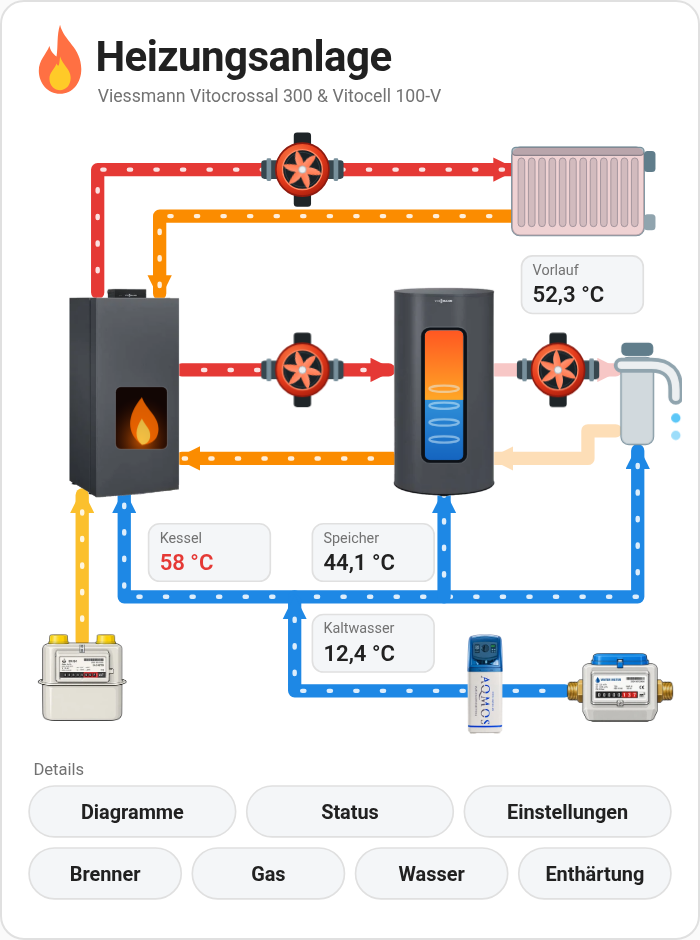
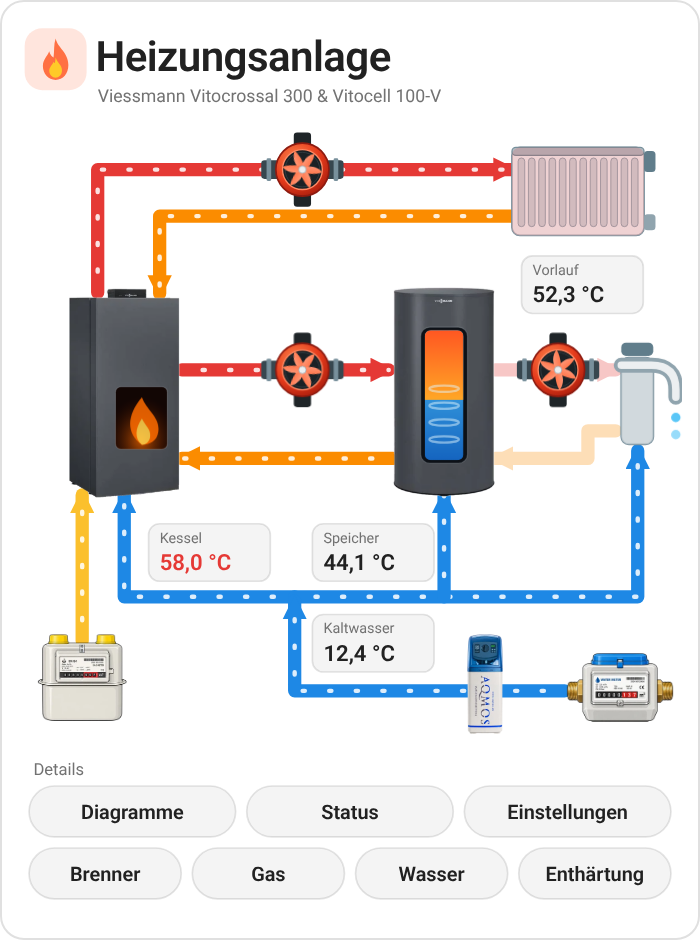
Gemeinsame Gestaltung und Tastaturbedienung (2.2.0) (#10)
* Gemeinsame Gestaltung und Tastaturbedienung (2.2.0)

Kästen, Kopf, untere Leiste und Themen-Schaltflächen im Stil der anderen
Karten; Schema, Leitungen und Diagramme unverändert. Werte und
Schaltflächen sind per Tastatur bedienbar, mit sichtbarem Fokus; der Fokus
bleibt nach dem Umschalten eines Themas erhalten. Browser-Tests ergänzt.

Claude-Session: https://claude.ai/code/session_01Sjf16sov4HFVeRAbjtopEg

* Funde aus dem unabhängigen Test beheben

Fokusrahmen als outline um das ganze klickbare Element: vorher fehlte er
bei Werten ohne Kasten, Heizkörper und Diagrammen (kompakt) und lag bei
Pumpen auf Einzelteilen. Grundfarben für Browser ohne color-mix()
(@supports). Tests: Rahmen an allen klickbaren Elementen, Leertaste
rollt nicht.

Claude-Session: https://claude.ai/code/session_01Sjf16sov4HFVeRAbjtopEg

---------

diff --git a/dist/heizungsanlage-card.js b/dist/heizungsanlage-card.js
@@ -8,7 +8,7 @@
  *   card:      type: custom:heizungsanlage-card   (Einstellungen über den visuellen Editor)
  */
 
-const CARD_VERSION = '2.1.0';
+const CARD_VERSION = '2.2.0';
 
 // Maskiert dynamische Texte und Werte in doppelt zitierten HTML-/SVG-Attributen.
 const esc = (value) => String(value)
@@ -354,22 +354,37 @@ class HeizungsanlageCard extends HTMLElement {
       this._narrow = w > 0 ? w < 700 : false;
     }
     this.shadowRoot.innerHTML = `<style>${this._css()}</style><ha-card><div class="wrap">${this._svg()}</div></ha-card>`;
+    // Klickbare Elemente sind auch per Tastatur erreichbar (Tab, Enter/Leertaste)
+    const activate = (el, fn) => {
+      el.setAttribute('tabindex', '0');
+      el.setAttribute('role', 'button');
+      el.addEventListener('click', fn);
+      el.addEventListener('keydown', (e) => {
+        if (e.key !== 'Enter' && e.key !== ' ') return;
+        e.preventDefault();
+        fn(e);
+      });
+    };
     this.shadowRoot.querySelectorAll('[data-entity]').forEach((el) => {
       const id = el.getAttribute('data-entity');
       if (!id) return;
-      el.addEventListener('click', () => {
+      activate(el, () => {
         this.dispatchEvent(
           new CustomEvent('hass-more-info', { detail: { entityId: id }, bubbles: true, composed: true })
         );
       });
     });
     this.shadowRoot.querySelectorAll('[data-topic]').forEach((el) => {
-      el.addEventListener('click', () => {
+      activate(el, (e) => {
         const topic = el.getAttribute('data-topic');
+        const keyboard = e?.type === 'keydown';
+        const isButton = el.classList.contains('btn');
         this._open = this._open === topic ? null : topic;
         this._built = false;
         this._build();
         this._update();
+        // Der Detailbereich wird neu aufgebaut: Fokus bei Tastaturbedienung auf dieselbe Schaltfläche zurücksetzen
+        if (keyboard) this.shadowRoot.querySelector(`${isButton ? '.btn' : ':not(.btn)'}[data-topic="${topic}"]`)?.focus();
       });
     });
     this._built = true;
@@ -391,12 +406,26 @@ class HeizungsanlageCard extends HTMLElement {
              fill: var(--primary-text-color); font-size: 20px; }
       .s  { fill: var(--secondary-text-color); font-size: 18px; }
       .v  { font-weight: 600; font-size: 20px; }
-      .h  { font-weight: 700; font-size: 21px; }
-      .big{ font-weight: 700; font-size: 58px; letter-spacing: -1px; }
+      .h  { font-weight: 600; font-size: 21px; }
+      .big{ font-weight: 600; font-size: 54px; letter-spacing: -1px; }
       .tick { fill: var(--secondary-text-color); font-size: 14px; }
-      .box  { fill: var(--secondary-background-color, #f3f3f3); stroke: var(--divider-color, #dcdcdc); stroke-width: 1.5; }
-      .cell { fill: var(--card-background-color, #fff); stroke: var(--divider-color, #dcdcdc); stroke-width: 1; }
+      /* Kästen: Grundfarben für Browser ohne color-mix() (alte Kiosk-/Tablet-Browser) */
+      .box, .cell, .tab { fill: var(--secondary-background-color, #f3f3f3); stroke: var(--divider-color, #dcdcdc); stroke-width: 1.5; }
+      .chipbg { fill: none; }
+      .tab.on { stroke: var(--primary-color, #03a9f4); stroke-width: 2.5; }
+      /* Gemeinsame Gestaltung mit den anderen Cards: Füllung und Rahmen aus der Textfarbe des Themes */
+      @supports (color: color-mix(in srgb, red 5%, transparent)) {
+        .box, .cell, .tab { fill: color-mix(in srgb, var(--primary-text-color, #888) 5%, transparent);
+                            stroke: color-mix(in srgb, var(--primary-text-color, #888) 12%, transparent); }
+        .chipbg { fill: color-mix(in srgb, #ff7043 18%, transparent); }
+        .tab.on { fill: color-mix(in srgb, var(--primary-color, #03a9f4) 18%, transparent);
+                  stroke: color-mix(in srgb, var(--primary-color, #03a9f4) 55%, transparent); stroke-width: 1.5; }
+        @media (hover: hover) { .clk:hover > rect.cell, .clk:hover > rect.tab:not(.on) { fill: color-mix(in srgb, var(--primary-text-color, #888) 10%, transparent); } }
+      }
       .clk  { cursor: pointer; }
+      /* Tastatur: ein Fokusrahmen um das ganze Element (Box, Wert, Gerätebild, Pumpe, Schaltfläche) */
+      .clk:focus { outline: none; }
+      .clk:focus-visible { outline: 3px solid var(--primary-color, #03a9f4); outline-offset: 3px; border-radius: 6px; }
 
       /* Rohre */
       .pipe { fill:none; stroke-width:12; stroke-linecap:round; stroke-linejoin:round; opacity:.28; transition: opacity .4s; }
@@ -486,7 +515,7 @@ class HeizungsanlageCard extends HTMLElement {
     ]
       .map(
         (c, i) => `<g class="clk" data-entity="${esc(c.ent || '')}" transform="translate(${210 + i * 292},1092)">
-          <rect class="cell" width="284" height="60" rx="10"/>
+          <rect class="cell" width="284" height="60" rx="14"/>
           <text class="s" x="12" y="22" style="font-size:14px">${c.l}</text>
           <text class="v" id="${c.id}" x="12" y="49" style="font-size:20px">–</text></g>`
       )
@@ -494,14 +523,13 @@ class HeizungsanlageCard extends HTMLElement {
 
     const cw = 186;
     const sets =
-      `<rect class="box" x="20" y="1080" width="1360" height="152" rx="16"/>
-       <text class="h" x="42" y="1129" style="font-size:22px">${T.status}</text>
+      `<text class="h" x="42" y="1129" style="font-size:22px">${T.status}</text>
        <text class="h" x="42" y="1197" style="font-size:22px">${T.settings}</text>` +
       SETTINGS
         .map(([l, id, key], i) => {
           const x = 210 + i * (cw + 8);
           return `<g class="clk" data-entity="${esc(E[key] || '')}">
-            <rect class="cell" x="${x}" y="1160" width="${cw}" height="60" rx="10"/>
+            <rect class="cell" x="${x}" y="1160" width="${cw}" height="60" rx="14"/>
             <text class="s" x="${x + 12}" y="1182" style="font-size:14px">${T[l]}</text>
             <text class="v" id="${id}" x="${x + 12}" y="1209" style="font-size:20px">–</text></g>`;
         })
@@ -513,7 +541,8 @@ class HeizungsanlageCard extends HTMLElement {
 
   <!-- Kopf -->
   <g transform="translate(26,6) scale(1.25)">
-    ${LOGO}
+    <rect class="chipbg" x="-10" y="4" width="70" height="70" rx="20"/>
+    <g transform="translate(7,15.6) scale(.6)">${LOGO}</g>
   </g>
   <text class="big" x="118" y="66">${esc(cfg.title === DEFAULTS.title ? T.title : cfg.title)}</text>
   <text class="s" x="120" y="100" style="font-size:23px">${esc(cfg.subtitle || '')}</text>
@@ -712,16 +741,16 @@ class HeizungsanlageCard extends HTMLElement {
     s += `<text class="s" x="14" y="${by - 6}" style="font-size:15px">${T.details}</text>`;
     Object.entries(topics).forEach(([key, [label, x, y, w]]) => {
       const on = open === key;
-      s += `<g class="btn clk" data-topic="${key}">
-        <rect x="${x}" y="${y}" width="${w}" height="46" rx="23" fill="${on ? '#03a9f4' : 'var(--secondary-background-color)'}" stroke="${on ? '#03a9f4' : 'var(--divider-color)'}" stroke-width="1.5"/>
-        <text x="${x + w / 2}" y="${y + 30}" text-anchor="middle" class="h" style="font-size:18px;${on ? 'fill:#fff' : ''}">${label}</text></g>`;
+      s += `<g class="btn clk" data-topic="${key}" aria-pressed="${on}">
+        <rect class="tab${on ? ' on' : ''}" x="${x}" y="${y}" width="${w}" height="46" rx="23"/>
+        <text x="${x + w / 2}" y="${y + 30}" text-anchor="middle" class="h" style="font-size:18px">${label}</text></g>`;
     });
 
     // ---- Detail-Bereich (je ein Thema aufgeklappt) ----
     const py = by + 124;
     const tile = (x, y, w, h) => `<rect class="box" x="${x}" y="${y}" width="${w}" height="${h}" rx="14"/>`;
     const cell = (x, y, w, label, id, ent, h = 54) =>
-      `<g class="clk" data-entity="${esc(ent || '')}"><rect class="cell" x="${x}" y="${y}" width="${w}" height="${h}" rx="10"/>
+      `<g class="clk" data-entity="${esc(ent || '')}"><rect class="cell" x="${x}" y="${y}" width="${w}" height="${h}" rx="14"/>
         <text class="s" x="${x + 12}" y="${y + 19}" style="font-size:14px">${label}</text>
         <text class="v" id="${id}" x="${x + 12}" y="${y + h - 8}" style="font-size:20px">–</text></g>`;
     const infoTile = (y, h, title, rows, key, iw, align = '') => {
@@ -785,7 +814,8 @@ class HeizungsanlageCard extends HTMLElement {
 <svg class="narrow" viewBox="0 0 600 ${H}" xmlns="http://www.w3.org/2000/svg" role="img" aria-label="Heizungsanlage">
   ${this._defs()}
   <g transform="translate(14,6) scale(.8)">
-    ${LOGO}
+    <rect class="chipbg" x="-10" y="4" width="70" height="70" rx="20"/>
+    <g transform="translate(7,15.6) scale(.6)">${LOGO}</g>
   </g>
   <text class="big" x="70" y="48" style="font-size:38px;letter-spacing:-.5px">${esc(cfg.title === DEFAULTS.title ? T.title : cfg.title)}</text>
   <text class="s" x="72" y="76" style="font-size:16px">${esc(cfg.subtitle || '')}</text>

diff --git a/tools/test_interaction.py b/tools/test_interaction.py
@@ -1,0 +1,141 @@
+#!/usr/bin/env python3
+"""Browser-Regressionen für Bedienung und Aktualisierung: Tastatur, Fokus, kein Neuaufbau bei neuen Werten.
+
+Aufruf: python3 tools/test_interaction.py [--card pfad/zur/karte.js]
+Benötigt Playwright und Chromium; optional PLAYWRIGHT_CHROMIUM_EXECUTABLE setzen.
+"""
+import argparse
+import os
+from pathlib import Path
+import shutil
+
+from harness import CARD
+
+
+TEST_JS = r"""
+async () => {
+  const results = [];
+  const check = (name, pass) => results.push({name, pass: !!pass});
+  const st = (state, unit) => ({state, attributes: unit ? {unit_of_measurement: unit} : {}});
+  const states = () => ({
+    'sensor.vicare_boiler_temperature': st('58', '°C'),
+    'sensor.vicare_supply_temperature': st('52.3', '°C'),
+    'sensor.vicare_outside_temperature': st('12.7', '°C'),
+    'binary_sensor.vicare_burner_active': st('on'),
+    'binary_sensor.vicare_circulation_pump_active': st('on'),
+    'sensor.vscotho1_72_ww_speichertemperatur': st('44.1', '°C'),
+  });
+  const create = (layout, config = {}) => {
+    document.body.replaceChildren();
+    document.body.style.width = layout === 'wide' ? '1100px' : '390px';
+    const c = document.createElement('heizungsanlage-card'), events = [];
+    c.addEventListener('hass-more-info', (e) => events.push(e.detail.entityId));
+    c.setConfig({layout, ...config});
+    document.body.appendChild(c);
+    c.hass = {states: states(), language: 'de'};
+    return {c, events, set: (s) => { c.hass = {states: s, language: 'de'}; }};
+  };
+  const key = (el, k) => el.dispatchEvent(new KeyboardEvent('keydown', {key: k, bubbles: true, composed: true, cancelable: true}));
+  const btn = (c, topic) => c.shadowRoot.querySelector(`.btn[data-topic="${topic}"]`);
+
+  for (const layout of ['wide', 'compact']) {
+    const {c, events, set} = create(layout);
+    const root = c.shadowRoot;
+    const svg = root.querySelector('svg'), val = root.getElementById('v-supply') || root.getElementById('v-boiler');
+    const clk = [...root.querySelectorAll('[data-entity]')];
+    const withId = clk.filter((el) => el.getAttribute('data-entity')), without = clk.filter((el) => !el.getAttribute('data-entity'));
+    check(`${layout}: Werte mit Entität sind per Tastatur erreichbar`, withId.length > 0 && withId.every((el) => el.getAttribute('tabindex') === '0' && el.getAttribute('role') === 'button'));
+    check(`${layout}: Felder ohne Entität sind nicht fokussierbar`, without.every((el) => !el.hasAttribute('tabindex')));
+    const first = withId[0];
+    first.focus();
+    key(first, 'Enter');
+    key(first, ' ');
+    key(first, 'a');
+    first.dispatchEvent(new Event('click'));
+    check(`${layout}: Enter, Leertaste und Klick öffnen die Entität, andere Tasten nicht`,
+      events.length === 3 && events.every((id) => id === first.getAttribute('data-entity')));
+    // Jedes klickbare Element zeigt bei Tastaturfokus einen Rahmen (auch Werte ohne Kasten, Pumpen, Heizkörper, Diagramme)
+    const noFrame = withId.filter((el) => { el.focus(); const cs = getComputedStyle(el); return el.matches(':focus-visible') && !(cs.outlineStyle === 'solid' && parseFloat(cs.outlineWidth) >= 3); });
+    check(`${layout}: sichtbarer Fokusrahmen an allen ${withId.length} klickbaren Elementen`, noFrame.length === 0);
+    first.focus();
+    const space = new KeyboardEvent('keydown', {key: ' ', bubbles: true, composed: true, cancelable: true});
+    first.dispatchEvent(space);
+    check(`${layout}: Leertaste rollt die Seite nicht`, space.defaultPrevented);
+    events.length = 0;
+
+    // Neue Werte: Texte werden gesetzt, die Grafik bleibt bestehen
+    const s = states();
+    s['sensor.vicare_supply_temperature'] = st('61.5', '°C');
+    s['binary_sensor.vicare_burner_active'] = st('off');
+    set(s);
+    check(`${layout}: neue Werte erscheinen ohne Neuaufbau der Grafik`,
+      root.querySelector('svg') === svg && /61,5/.test(root.getElementById('v-supply')?.textContent || '') && !root.getElementById('boiler').classList.contains('on'));
+    check(`${layout}: Tastaturfokus bleibt bei neuen Werten erhalten`, root.activeElement === first);
+    check(`${layout}: Kästen nutzen die gemeinsame Füllung (halbtransparent aus der Textfarbe)`,
+      [...root.querySelectorAll('rect.box, rect.cell')].length > 0 && [...root.querySelectorAll('rect.box, rect.cell')].every((r) => /rgba|color\(|oklab|srgb/.test(getComputedStyle(r).fill)));
+    c.remove();
+  }
+
+  // Kompakt: Schaltflächen der Themen
+  {
+    const {c} = create('compact');
+    const root = c.shadowRoot;
+    const b = btn(c, 'diagrams');
+    check('kompakt: Themen-Schaltflächen sind fokussierbar und melden ihren Zustand', b.getAttribute('tabindex') === '0' && b.getAttribute('aria-pressed') === 'false');
+    b.focus();
+    key(b, 'Enter');
+    const b2 = btn(c, 'diagrams');
+    const framed = (el) => { const cs = getComputedStyle(el); return !el.matches(':focus-visible') || (cs.outlineStyle === 'solid' && parseFloat(cs.outlineWidth) >= 3); };
+    check('kompakt: Fokusrahmen an Diagrammen und Werten im geöffneten Thema', [...root.querySelectorAll('[data-entity]')].filter((el) => el.getAttribute('data-entity')).every((el) => { el.focus(); return framed(el); }) && (b2.focus(), framed(b2)));
+    check('kompakt: Enter öffnet das Thema, Schaltfläche ist markiert', c._open === 'diagrams' && b2.getAttribute('aria-pressed') === 'true' && b2.querySelector('rect').classList.contains('on') && !!root.getElementById('chart'));
+    check('kompakt: Fokus bleibt nach dem Öffnen auf der Schaltfläche', root.activeElement === b2);
+    check('kompakt: Text der aktiven Schaltfläche bleibt in Textfarbe lesbar', getComputedStyle(b2.querySelector('text')).fill === getComputedStyle(btn(c, 'status').querySelector('text')).fill);
+    key(b2, ' ');
+    check('kompakt: Leertaste schließt das Thema wieder, Fokus bleibt', c._open === null && root.activeElement === btn(c, 'diagrams') && btn(c, 'diagrams').getAttribute('aria-pressed') === 'false');
+    btn(c, 'gas').dispatchEvent(new Event('click'));
+    check('kompakt: Klick öffnet weiterhin genau ein Thema', c._open === 'gas' && [...root.querySelectorAll('.btn .tab.on')].length === 1);
+    const meter = root.querySelector(':not(.btn)[data-topic="water"]');
+    meter.focus();
+    key(meter, 'Enter');
+    check('kompakt: Zähler im Schema per Tastatur, Fokus bleibt auf dem Zähler', c._open === 'water' && root.activeElement === root.querySelector(':not(.btn)[data-topic="water"]'));
+    c.remove();
+  }
+  return results;
+}
+"""
+
+
+def main():
+    from playwright.sync_api import sync_playwright
+
+    parser = argparse.ArgumentParser(description=__doc__)
+    parser.add_argument("--card", default=CARD)
+    args = parser.parse_args()
+    source = Path(args.card).read_text(encoding="utf8")
+    with sync_playwright() as playwright:
+        options = {}
+        executable = os.environ.get("PLAYWRIGHT_CHROMIUM_EXECUTABLE")
+        if not executable and not Path(playwright.chromium.executable_path).exists():
+            executable = shutil.which("chromium") or shutil.which("chromium-browser")
+        if executable:
+            options["executable_path"] = executable
+        browser = playwright.chromium.launch(**options)
+        page = browser.new_page()
+        errors = []
+        page.on("pageerror", lambda error: errors.append(str(error)))
+        page.set_content('<html><body style="--primary-text-color:#212121;--secondary-text-color:#727272;--primary-color:#03a9f4"></body></html>')
+        page.add_script_tag(content=source)
+        results = page.evaluate(TEST_JS)
+        results.append({"name": "Keine JavaScript-Fehler im Browser", "pass": not errors})
+        browser.close()
+    for result in results:
+        print(("PASS " if result["pass"] else "FAIL ") + result["name"])
+    failures = sum(not result["pass"] for result in results)
+    print(f"\n{len(results)} Prüfungen, {failures} Fehler")
+    if errors:
+        print(errors)
+    return bool(failures)
+
+
+if __name__ == "__main__":
+    raise SystemExit(main())

diff --git a/README.md b/README.md
@@ -10,9 +10,9 @@
 
 Home Assistant card (`custom:heizungsanlage-card`) that shows a gas or oil heating system as an animated diagram: boiler, hot water tank, pumps, radiator, gas and water meters and water softener, with live values and history. The defaults fit a Viessmann system with the ViCare integration (Vitocrossal 300 & Vitocell 100-V); everything can be changed in the visual editor.
 
-<img src="https://raw.githubusercontent.com/BeGiBue/home-assistant-boiler-room-scheme-card/main/screenshots/boiler-heating-350-closed-light.png" width="350" alt="Heating mode, 350 px, details closed"> <img src="https://raw.githubusercontent.com/BeGiBue/home-assistant-boiler-room-scheme-card/main/screenshots/boiler-heating-350-diagrams-light.png" width="350" alt="Heating mode, 350 px, charts open">
+<img src="https://raw.githubusercontent.com/BeGiBue/home-assistant-boiler-room-scheme-card/main/screenshots/boiler-heating-350-closed-light.png?v=2" width="350" alt="Heating mode, 350 px, details closed"> <img src="https://raw.githubusercontent.com/BeGiBue/home-assistant-boiler-room-scheme-card/main/screenshots/boiler-heating-350-diagrams-light.png?v=2" width="350" alt="Heating mode, 350 px, charts open">
 
-<img src="https://raw.githubusercontent.com/BeGiBue/home-assistant-boiler-room-scheme-card/main/screenshots/boiler-heating-800-light.png" width="800" alt="Full diagram in heating mode, 800 px">
+<img src="https://raw.githubusercontent.com/BeGiBue/home-assistant-boiler-room-scheme-card/main/screenshots/boiler-heating-800-light.png?v=2" width="800" alt="Full diagram in heating mode, 800 px">
 
 ### Features
 
@@ -53,9 +53,9 @@ Independent community project, not affiliated with Viessmann or Home Assistant. 
 
 Home-Assistant-Karte (`custom:heizungsanlage-card`), die eine Gas- oder Ölheizung als animiertes Anlagenschema darstellt: Kessel, Warmwasserspeicher, Pumpen, Heizkörper, Gas- und Wasserzähler und Enthärtungsanlage, mit Live-Werten und Verläufen. Die Standardwerte passen zu einer Viessmann-Anlage mit der ViCare-Integration (Vitocrossal 300 & Vitocell 100-V); alles lässt sich im grafischen Editor anpassen.
 
-<img src="https://raw.githubusercontent.com/BeGiBue/home-assistant-boiler-room-scheme-card/main/screenshots/boiler-heating-350-closed-light.png" width="350" alt="Heizbetrieb, 350 px, Details geschlossen"> <img src="https://raw.githubusercontent.com/BeGiBue/home-assistant-boiler-room-scheme-card/main/screenshots/boiler-heating-350-diagrams-light.png" width="350" alt="Heizbetrieb, 350 px, Diagramme geöffnet">
+<img src="https://raw.githubusercontent.com/BeGiBue/home-assistant-boiler-room-scheme-card/main/screenshots/boiler-heating-350-closed-light.png?v=2" width="350" alt="Heizbetrieb, 350 px, Details geschlossen"> <img src="https://raw.githubusercontent.com/BeGiBue/home-assistant-boiler-room-scheme-card/main/screenshots/boiler-heating-350-diagrams-light.png?v=2" width="350" alt="Heizbetrieb, 350 px, Diagramme geöffnet">
 
-<img src="https://raw.githubusercontent.com/BeGiBue/home-assistant-boiler-room-scheme-card/main/screenshots/boiler-heating-800-light.png" width="800" alt="Vollständiges Schema im Heizbetrieb, 800 px">
+<img src="https://raw.githubusercontent.com/BeGiBue/home-assistant-boiler-room-scheme-card/main/screenshots/boiler-heating-800-light.png?v=2" width="800" alt="Vollständiges Schema im Heizbetrieb, 800 px">
 
 ### Funktionen
 

diff --git a/CHANGELOG.md b/CHANGELOG.md
@@ -1,5 +1,13 @@
 # Changelog
 
+## 2.2.0
+
+- Look aligned with the other cards (NAS, Eaton UPS, TouchKio, UniFi): boxes use the shared fill and border derived from the theme's text colour, the flame sits on a tinted icon field, the title is slightly lighter. In the bottom bar the grey frame is gone; status and settings are individual tiles. The active button in the compact layout is tinted instead of solid blue and follows the theme's primary colour. Pipes, devices, positions and charts are unchanged. / Aussehen an die anderen Karten angeglichen (NAS, Eaton UPS, TouchKio, UniFi): Kästen nutzen die gemeinsame Füllung und Rahmenfarbe aus der Textfarbe des Themes, die Flamme sitzt auf einem getönten Symbolfeld, der Titel ist etwas leichter. In der unteren Leiste entfällt der graue Rahmen; Status und Einstellungen sind einzelne Kacheln. Die aktive Schaltfläche im kompakten Layout ist getönt statt vollblau und folgt der Primärfarbe des Themes. Leitungen, Geräte, Positionen und Diagramme bleiben unverändert.
+- Keyboard: every value with an entity and every topic button can be reached with Tab and activated with Enter or Space, with a visible focus frame around the whole element. After opening or closing a topic with the keyboard the focus stays on the button. / Tastatur: Jeder Wert mit Entität und jede Themen-Schaltfläche ist mit Tab erreichbar und mit Enter oder Leertaste auslösbar, mit sichtbarem Fokusrahmen um das ganze Element. Nach dem Öffnen oder Schließen eines Themas per Tastatur bleibt der Fokus auf der Schaltfläche.
+- Box headings and button labels are slightly lighter (weight 600), cells have rounder corners and the same border width as the boxes. Browsers without `color-mix()` get plain fallback colours. / Überschriften der Kästen und Beschriftungen der Schaltflächen sind etwas leichter (Schriftstärke 600), Zellen haben rundere Ecken und dieselbe Rahmenstärke wie die Kästen. Browser ohne `color-mix()` erhalten einfache Ersatzfarben.
+- Card type, options and entities are unchanged. / Kartentyp, Optionen und Entitäten bleiben unverändert.
+- Browser tests for keyboard use and updates added (`tools/test_interaction.py`). / Browser-Tests für Tastaturbedienung und Aktualisierung ergänzt (`tools/test_interaction.py`).
+
 ## 2.1.0
 
 - The card now appears in English by default and in German when Home Assistant is set to German; the editor already supported both. / Die Karte erscheint jetzt standardmäßig auf Englisch und auf Deutsch, wenn Home Assistant auf Deutsch eingestellt ist; der Editor war bereits zweisprachig.

diff --git a/CLAUDE.md b/CLAUDE.md
@@ -80,6 +80,11 @@ Detailbereich ab y854. Die Höhe der `viewBox` hängt vom geöffneten Thema ab.
 - **Texte setzen** über `setT(id, text)`; schreibt zusätzlich in das Element `<id>-d` (kompakte Ansicht zeigt
   einige Werte zugleich im Schema und im Detailbereich).
 - **Klickbar** ist alles mit `data-entity="…"` (öffnet den Home-Assistant-Dialog). Leere Entität = nicht klickbar.
+  `_build()` macht diese Elemente und die Themen-Schaltflächen (`data-topic`) auch per Tastatur bedienbar (`tabindex`, `role="button"`,
+  Enter/Leertaste); der Fokusrahmen ist ein `outline` um das ganze Element (`.clk:focus-visible`), auch bei Werten ohne Kasten.
+- **Kästen:** `.box` und `.cell` teilen sich Füllung und Rahmen (5 % bzw. 12 % der Textfarbe, wie in den anderen Karten des Nutzers);
+  Themen-Schaltflächen nutzen `.tab` / `.tab.on` (getönt in der Primärfarbe). Keine festen Hex-Farben für Flächen verwenden.
+  Die `color-mix()`-Farben stehen in einem `@supports`-Block; davor stehen Grundfarben für Browser ohne `color-mix()`.
 - **Diagramme** lesen ihre Geometrie aus `data-x0/x1/y0/y1/xr` am Zielelement (`#chart`, `#chart-burner`),
   sonst gelten die Standardwerte des breiten Layouts.
 - Konfigurationsschlüssel liegen in `DEFAULTS`; jeder neue Schlüssel braucht ein Feld im Editor
@@ -94,7 +99,7 @@ sagen, dass keine Vorschau erzeugt werden konnte.
 
 ```bash
 npm run check                                   # node --check
-npm test                                        # Zahlen-Sicherheit, Editor + beide Layouts, HTML-Injection
+npm test                                        # Zahlen-Sicherheit, Editor + beide Layouts, HTML-Injection, Tastatur/Aktualisierung
 npm run preview                                 # tools/out/breit.png und tools/out/kompakt*.png
 python tools/harness.py --width 390 --topic diagrams --out tools/out/x.png   # einzelnes Bild
 python tools/images.py extract                  # Gerätebilder nach assets/devices/*.webp
